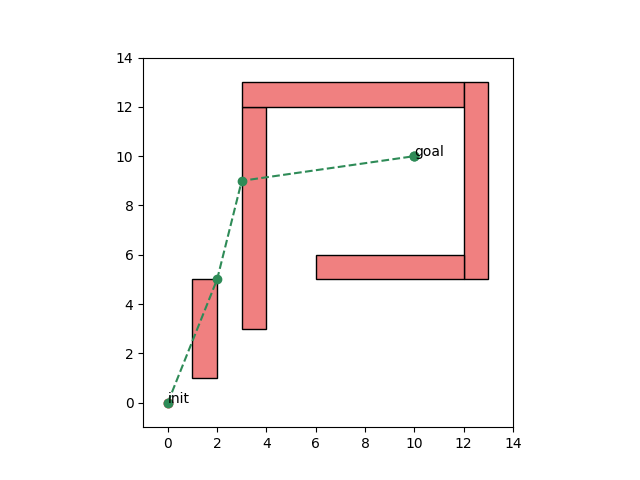
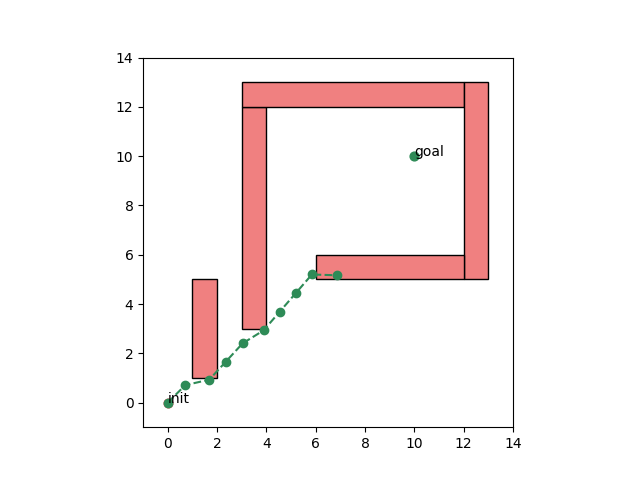
collision and bug work

diff --git a/ws/hw2/MyBugAlgorithm.cpp b/ws/hw2/MyBugAlgorithm.cpp
@@ -1,4 +1,6 @@
 #include "MyBugAlgorithm.h"
+#include "collisionCheck.h"
+#include <iostream> 
 
 // Implement your methods in the `.cpp` file, for example:
 amp::Path2D MyBugAlgorithm::plan(const amp::Problem2D& problem) {
@@ -6,37 +8,208 @@ amp::Path2D MyBugAlgorithm::plan(const amp::Problem2D& problem) {
     // Your algorithm solves the problem and generates a path. Here is a hard-coded to path for now...
     amp::Path2D path;
 
+    // Initialize with zero rows, 2 columns
+    q_L.resize(0, 2);
+    q_H.resize(0, 2);
+    Q.resize(0,2);
+    collision coll;
+   
+    
+
     int i = 1;
-    float tolerance = 1e-6;
-
+    double dist = 1; // move 1 unit at a time
+    const double ogDist = 1; // static dist
+    double tolerance = 1e-6; // tolerance for finding the goal
+    double distTolerance = 0.01; // minimum distance willing to travel
     Eigen::Vector2d q = problem.q_init; // start point
-    Eigen::Vector2d mLine = problem.q_goal-problem.q_init;
-    path.waypoints.push_back(q);
-    q_L(0) = q;
+    Eigen::Vector2d q_goal = problem.q_goal; // end point
+    Eigen::Vector2d dir; // create direction unit vector to goal line
+    Eigen::Vector2d vertDir; // direction vector to next vertex (used for boundary following)
+    Eigen::Vector2d q_next;
+    
+    const amp::Polygon* hitObst = nullptr;
 
-    while(1){
-        while(followingObstacle == false){
-            
-            if((q-q_goal).norm() <= tolerance )
+    // need to check if new point is colliding or not
+
+    // -----------------bug 1 algo start--------------------
+    // Initialize q_L with the start point
+    q_L.resize(1, 2);
+    q_L.row(0) = problem.q_init.transpose();
+    Q.resize(1,2);
+    Q.row(0) = problem.q_init.transpose();
+    q = Q.row(0).transpose();
+    path.waypoints.push_back(problem.q_init);
+    followingObstacle = false;
+    exit = false;
+
+    while(!exit)
+    {
+        // grab last current position
+        q = Q.row(i-1).transpose();
+        dir = (q_goal - q) / (q_goal - q).norm();   // direction of goal (unit vector)
+        q_next = q + dist*dir; // next point to move to
+
+        // check if at goal
+        if((q_next - q_goal).norm() <= tolerance)
+        {
+            std::cout << "Reached goal" << std::endl;
+            exit = true;
+            path.waypoints.push_back(q_next);
+            path.waypoints.push_back(q_goal);
+            return path;
+        }
+
+        // check if collision
+        bool hit = coll:collisionCheckAll(q_next, problem);
+        if(!hit)
+        {
+            // not a collision, were good to move
+            move = true;
+
+        }
+        else
+        {
+            // we have a collision
+            dist = dist - 0.01;
+            if(dist <= distTolerance);
             {
-                break; // goal reached
+                // reached the edge of an obstacle
+                // record hit point
+                // engage boundary following
+
             }
-            else if(obstacleHit) // need to implement collision detection
-            {
-                followingObstacle = true;
-            }
+            // while(boundaryFollowing)
+                // reset distance
+                // find nearest vertex to left or right
+                // move to that vertex
+                // record distance to goal as q_L, overwrite accordingly
+                // break once q_H hit
+                // retrace steps to the min q_L
+                // turn off boundary following
 
         }
 
+        // MOVE COMMANDS
+        if(move)
+        {
+            Q.conservativeResize(Q.rows() + 1, 2);
+            Q.row(Q.rows() - 1) = q_next.transpose(); // store point into trajectory
+            path.waypoints.push_back(q_next);
+        }
+        
+
     }
 
+    
+    
+    
+    /*
+    while(!exit && i<10)
+    {
+        q = Q.row(i-1).transpose();
+        dir = (q_goal - q) / (q_goal - q).norm();   // direction of goal (unit vector)
+
+        q_next = q + dist*dir; // next point to move to
+        
+        // check if next point is the goal
+        if((q_next - q_goal).norm() <= tolerance)
+        {
+            std::cout << "Reached goal" << std::endl;
+            path.waypoints.push_back(q_next);
+            path.waypoints.push_back(q_goal);
+            exit = true;
+            return path; // goal reached
+        }
+
+        // if not:
+        // check for collision
+        for(int j = 0; j<n; j++)
+        {
+            const amp::Polygon& obst = problem.obstacles[j];
+            if(coll.collisionCheck(q_next, obst))
+            {
+                std::cout << "Hit Obstacle " << j << std::endl;
+                // next point is a collision point
+                hitObst = &obst;
+                followingObstacle = true;
+                //dist = 0.01; // move to very small increments
+                break;
+            }
+        }
+        // following obstacle logic
+        if(followingObstacle)
+        {
+
+            // record as a hit point
+            q_H.conservativeResize(q_H.rows() + 1,2);
+            q_H.row(q_H.rows()-1) = q.transpose();
+            Eigen::Vector2d qHi = q;
+            //std::cout << "Hit point " << i << " is " << qHi << std::endl;
+            // check if new hit point is same as old hit poiint
+
+
+            // now move into boundary following
+            
+            const auto& vertices = hitObst->verticesCCW();
+            int closest_idx = 0;
+
+            double min_dist = (q_H.row(q_H.rows() - 1).transpose() - vertices[0]).norm();
+            for (size_t i = 1; i < vertices.size(); i++) {
+                double dist = (q_H.row(q_H.rows()-1).transpose() - vertices[i]).norm();
+                if (dist < min_dist) {
+                    min_dist = dist;
+                    closest_idx = i;
+                }
+            }
+            Eigen::Vector2d next_vertex;
+            // try just moving in direction of next vertex (L or R?)
+            if(direction == 'R')
+            {
+                // right turning
+                // find nearest vertex to the right
+                int idx = (closest_idx == 0) ? vertices.size() - 1 : closest_idx - 1;
+                next_vertex = vertices[idx];
+            }   
+            else if(direction == 'L')
+            {
+                // left turning
+                //find nearest vertext to the left
+                size_t idx = (closest_idx + 1) % vertices.size();
+                next_vertex = vertices[idx];
+            }
+            std::cout << "Hit point: " << qHi << std::endl;
+            std::cout << "Nearest vertex on obstacle is " << next_vertex << std::endl;
+            vertDir = (next_vertex - qHi) / (next_vertex - qHi).norm();
+            double step = std::min(dist, (next_vertex - qHi).norm());   
+            q_next = qHi + dist*vertDir;
+            // check if new point is colliding with obstacle:
+            for(int j = 0; j<n; j++)
+            {
+                const amp::Polygon& obst = problem.obstacles[j];
+                if(!coll.collisionCheck(q_next, obst))
+                {
+                    followingObstacle = false;
+                    break;
+                }
+                else
+                {
+                    // idk what to do here
+                }
+            }
+            
+        }
+
+        Q.conservativeResize(Q.rows() + 1, 2);
+        Q.row(Q.rows() - 1) = q_next.transpose();  // <-- use q_L.rows() not q_H.rows()
+        path.waypoints.push_back(q_next);
+        i++;
+    }
+    */
 
 
 
-    path.waypoints.push_back(problem.q_init);
-    path.waypoints.push_back(Eigen::Vector2d(2.0, 5.0));
-    path.waypoints.push_back(Eigen::Vector2d(3.0, 9.0));
-    path.waypoints.push_back(problem.q_goal);
+    //path.waypoints.push_back(q_goal);
 
-    return path;
+ 
+
 }

diff --git a/ws/shared/collisionCheck.cpp b/ws/shared/collisionCheck.cpp
@@ -1,0 +1,56 @@
+#include "collisionCheck.h"
+
+// Need to test!!!
+
+bool collision::collisionCheck(const Eigen::Vector2d q, const amp::Polygon& obstacle) {
+    const auto& vertices = obstacle.verticesCCW();
+    int n = static_cast<int>(vertices.size());
+    double xq = q(0); // point X
+    double yq = q(1); // point Y
+    int crossings = 0;
+
+    for (int i = 0; i < n; ++i) {
+        const Eigen::Vector2d& v1 = vertices[i];
+        const Eigen::Vector2d& v2 = vertices[(i + 1) % n]; // wrap around
+
+        // ---- Boundary check ----
+        double lineCheck = (xq - v1.x()) * (v2.y() - v1.y()) - (yq - v1.y()) * (v2.x() - v1.x());
+        if (std::abs(lineCheck) < 1e-12 &&
+            std::min(v1.x(), v2.x()) <= xq && xq <= std::max(v1.x(), v2.x()) &&
+            std::min(v1.y(), v2.y()) <= yq && yq <= std::max(v1.y(), v2.y())) {
+            collisionDetected = true;
+            return collisionDetected; // must return a bool
+        }
+
+        // ---- Ray casting ----
+        bool condY = (v1.y() > yq) != (v2.y() > yq);
+        if (condY) {
+            double xIntersection = v1.x() + (yq - v1.y()) * (v2.x() - v1.x()) / (v2.y() - v1.y());
+            if (xIntersection > xq) {
+                crossings++;
+            }
+        }
+    }
+
+    // Odd number of crossings → inside polygon
+    collisionDetected = (crossings % 2 == 1);
+    return collisionDetected;
+}
+
+bool collision::collisionCheckAll(const Eigen::Vector2d q, const amp::Problem2D& problem) {
+    int n = problem.obstacles.size(); // number of obstacles in the workspace
+    collision coll;
+    for(int j = 0; j<n; j++)
+    {
+        const amp::Polygon& obst = problem.obstacles[j];
+        if(coll.collisionCheck(q, obst))
+        {
+            collisionDetected = true;
+            return collisionDetected;
+            break;
+        }
+    }
+    // If no collision found
+    collisionDetected = false;
+    return collisionDetected;
+}

diff --git a/ws/hw2/MyBugAlgorithm.h b/ws/hw2/MyBugAlgorithm.h
@@ -2,18 +2,24 @@
 
 #include "AMPCore.h"
 #include "hw/HW2.h"
+#include <Eigen/Dense>
+
 
 /// @brief Declare your bug algorithm class here. Note this class derives the bug algorithm class declared in HW2.h
 class MyBugAlgorithm : public amp::BugAlgorithm {
     public:
         // Override and implement the bug algorithm in the plan method. The methods are declared here in the `.h` file
         virtual amp::Path2D plan(const amp::Problem2D& problem) override;
-
+        
         // Add any other methods here...
     
     private:
         // Add any member variables here...
-        Eigen::Vector2d q_H; // Hit point
-        Eigen::Vector2d q_L; // Leave point
-        bool followingObstacle = false; // flag to check if in obstacle following mode
+        Eigen::MatrixXd q_L;  // N×2 matrix
+        Eigen::MatrixXd q_H;  // N×2 matrix
+        Eigen::MatrixXd Q; // Nx2 matrix of all points travelled
+        char direction = 'L'; // define if robot is right [R] or left [L] turning TEST BOTH
+        bool followingObstacle; // flag to check if in obstacle following mode
+        bool exit;
+        bool move;
 };

diff --git a/ws/shared/collisionCheck.h b/ws/shared/collisionCheck.h
@@ -1,0 +1,11 @@
+#include "AMPCore.h"
+#include <cmath>
+#include <algorithm>
+
+class collision {
+    public:
+        bool collisionCheck(const Eigen::Vector2d q, const amp::Polygon& obstacle);
+        bool collisionCheckAll(const Eigen::Vector2d q, const amp::Problem2D& problem);
+    private:
+        bool collisionDetected = false;
+};
